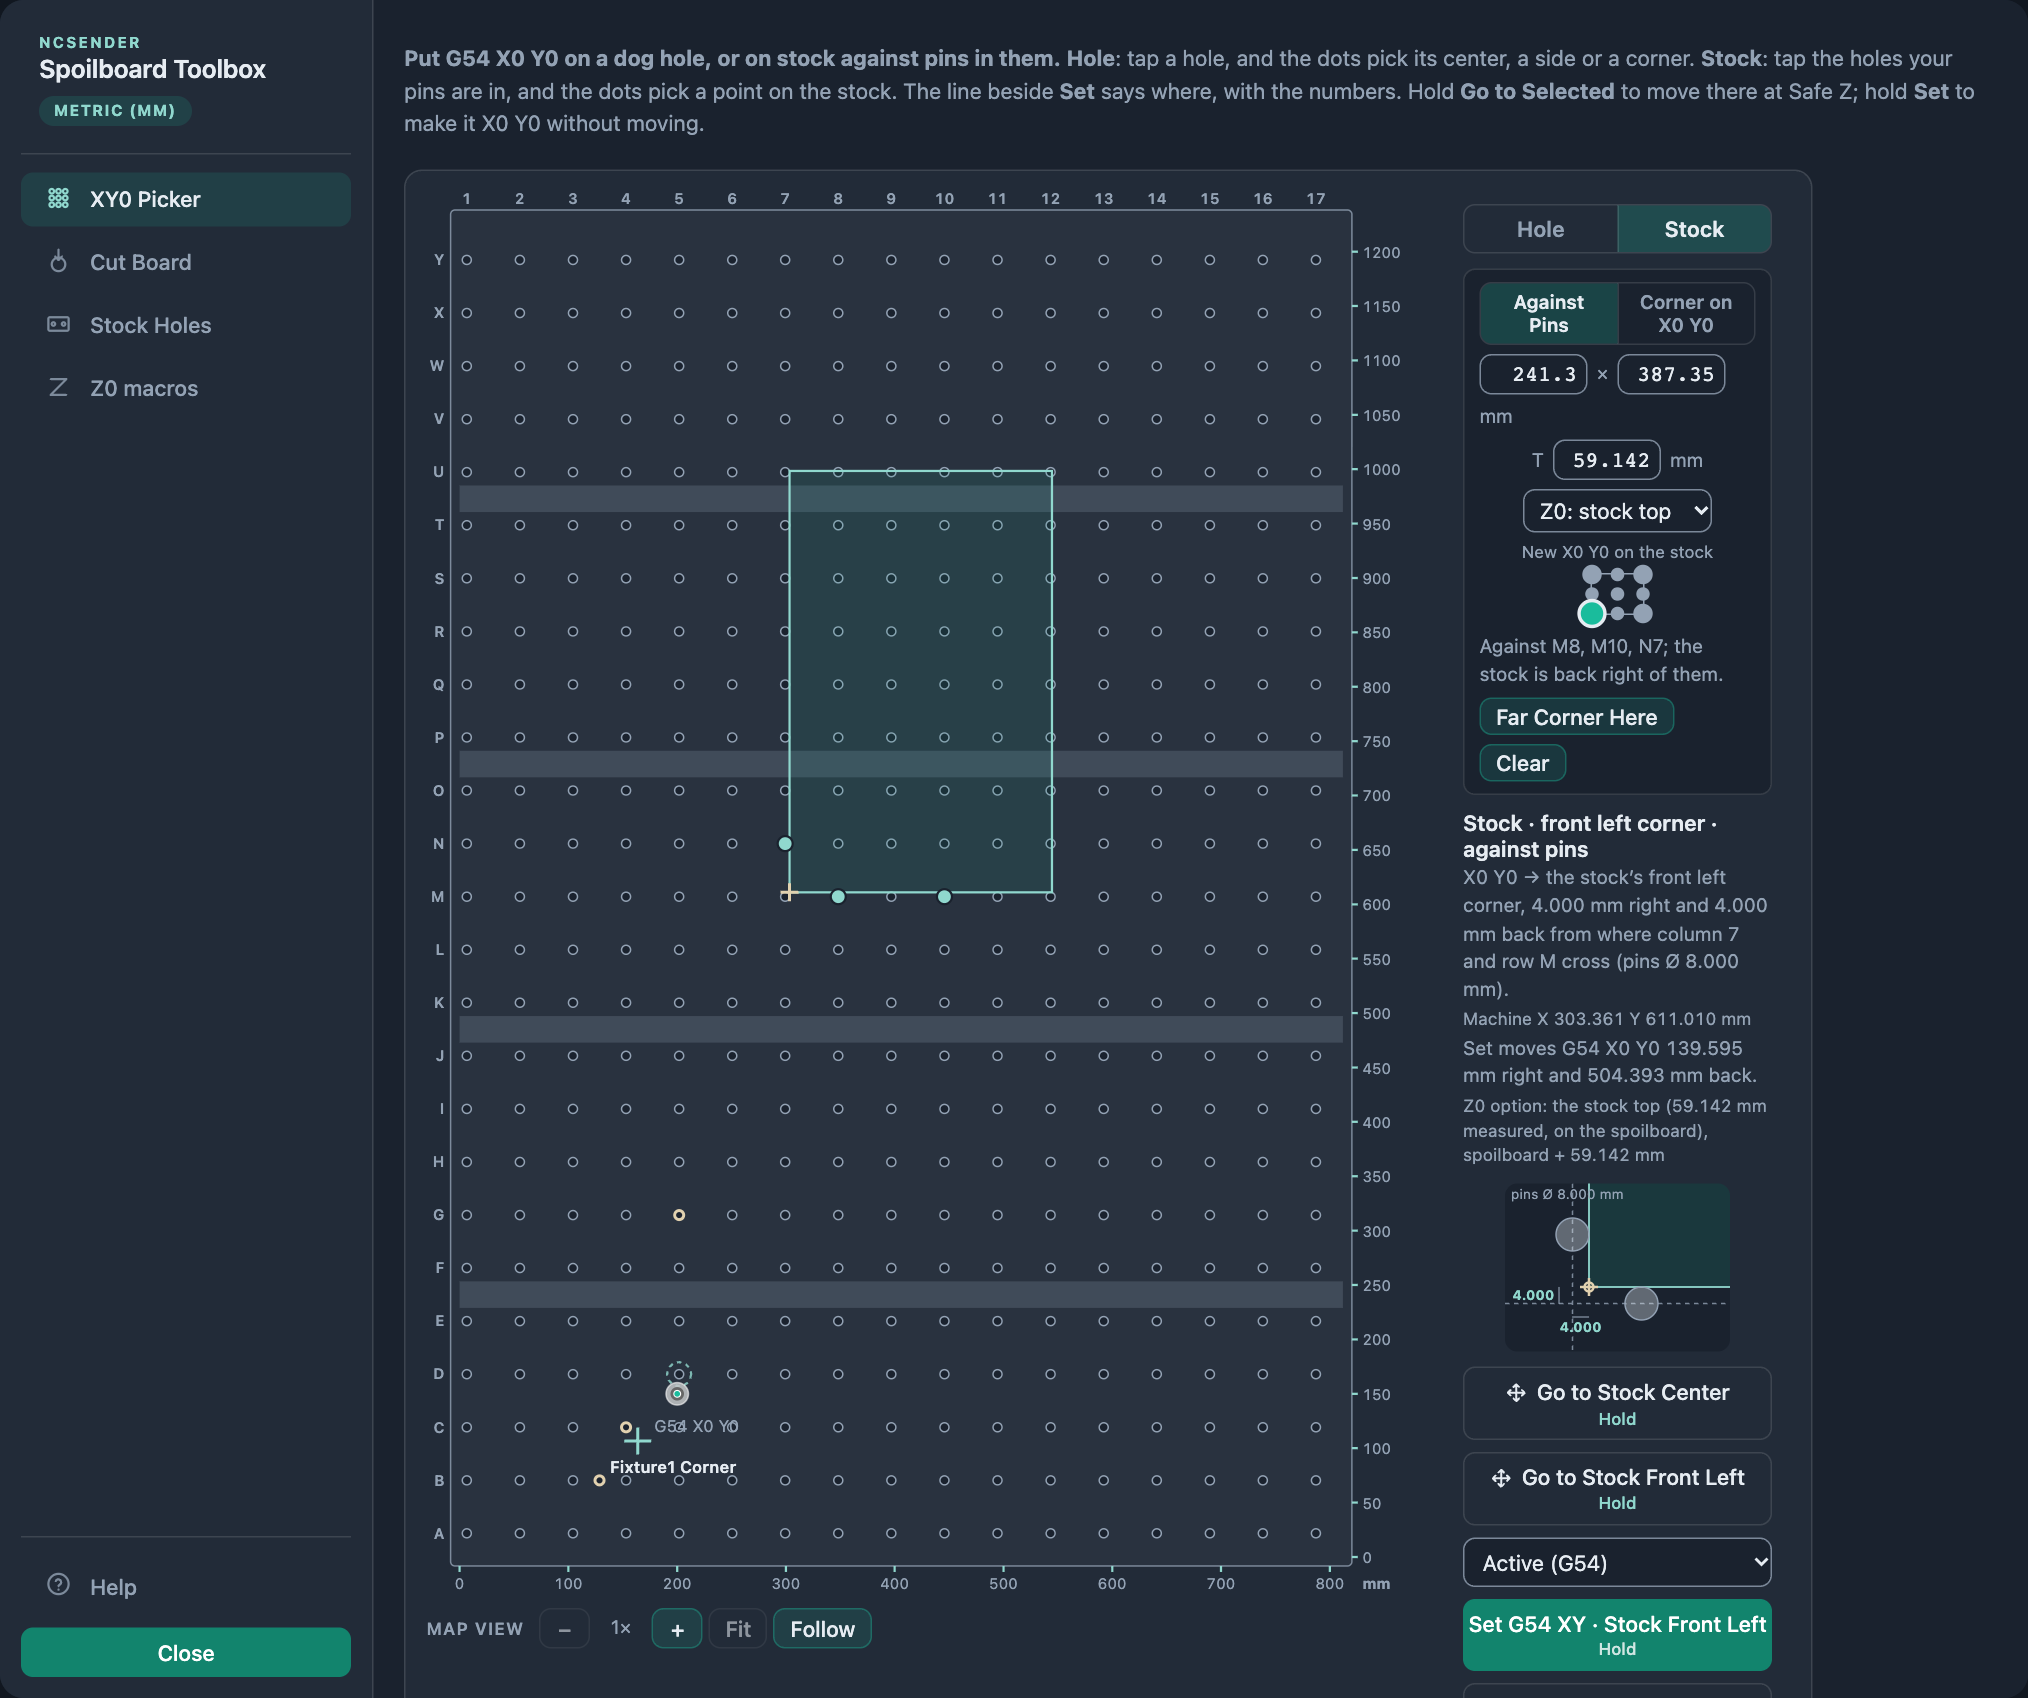
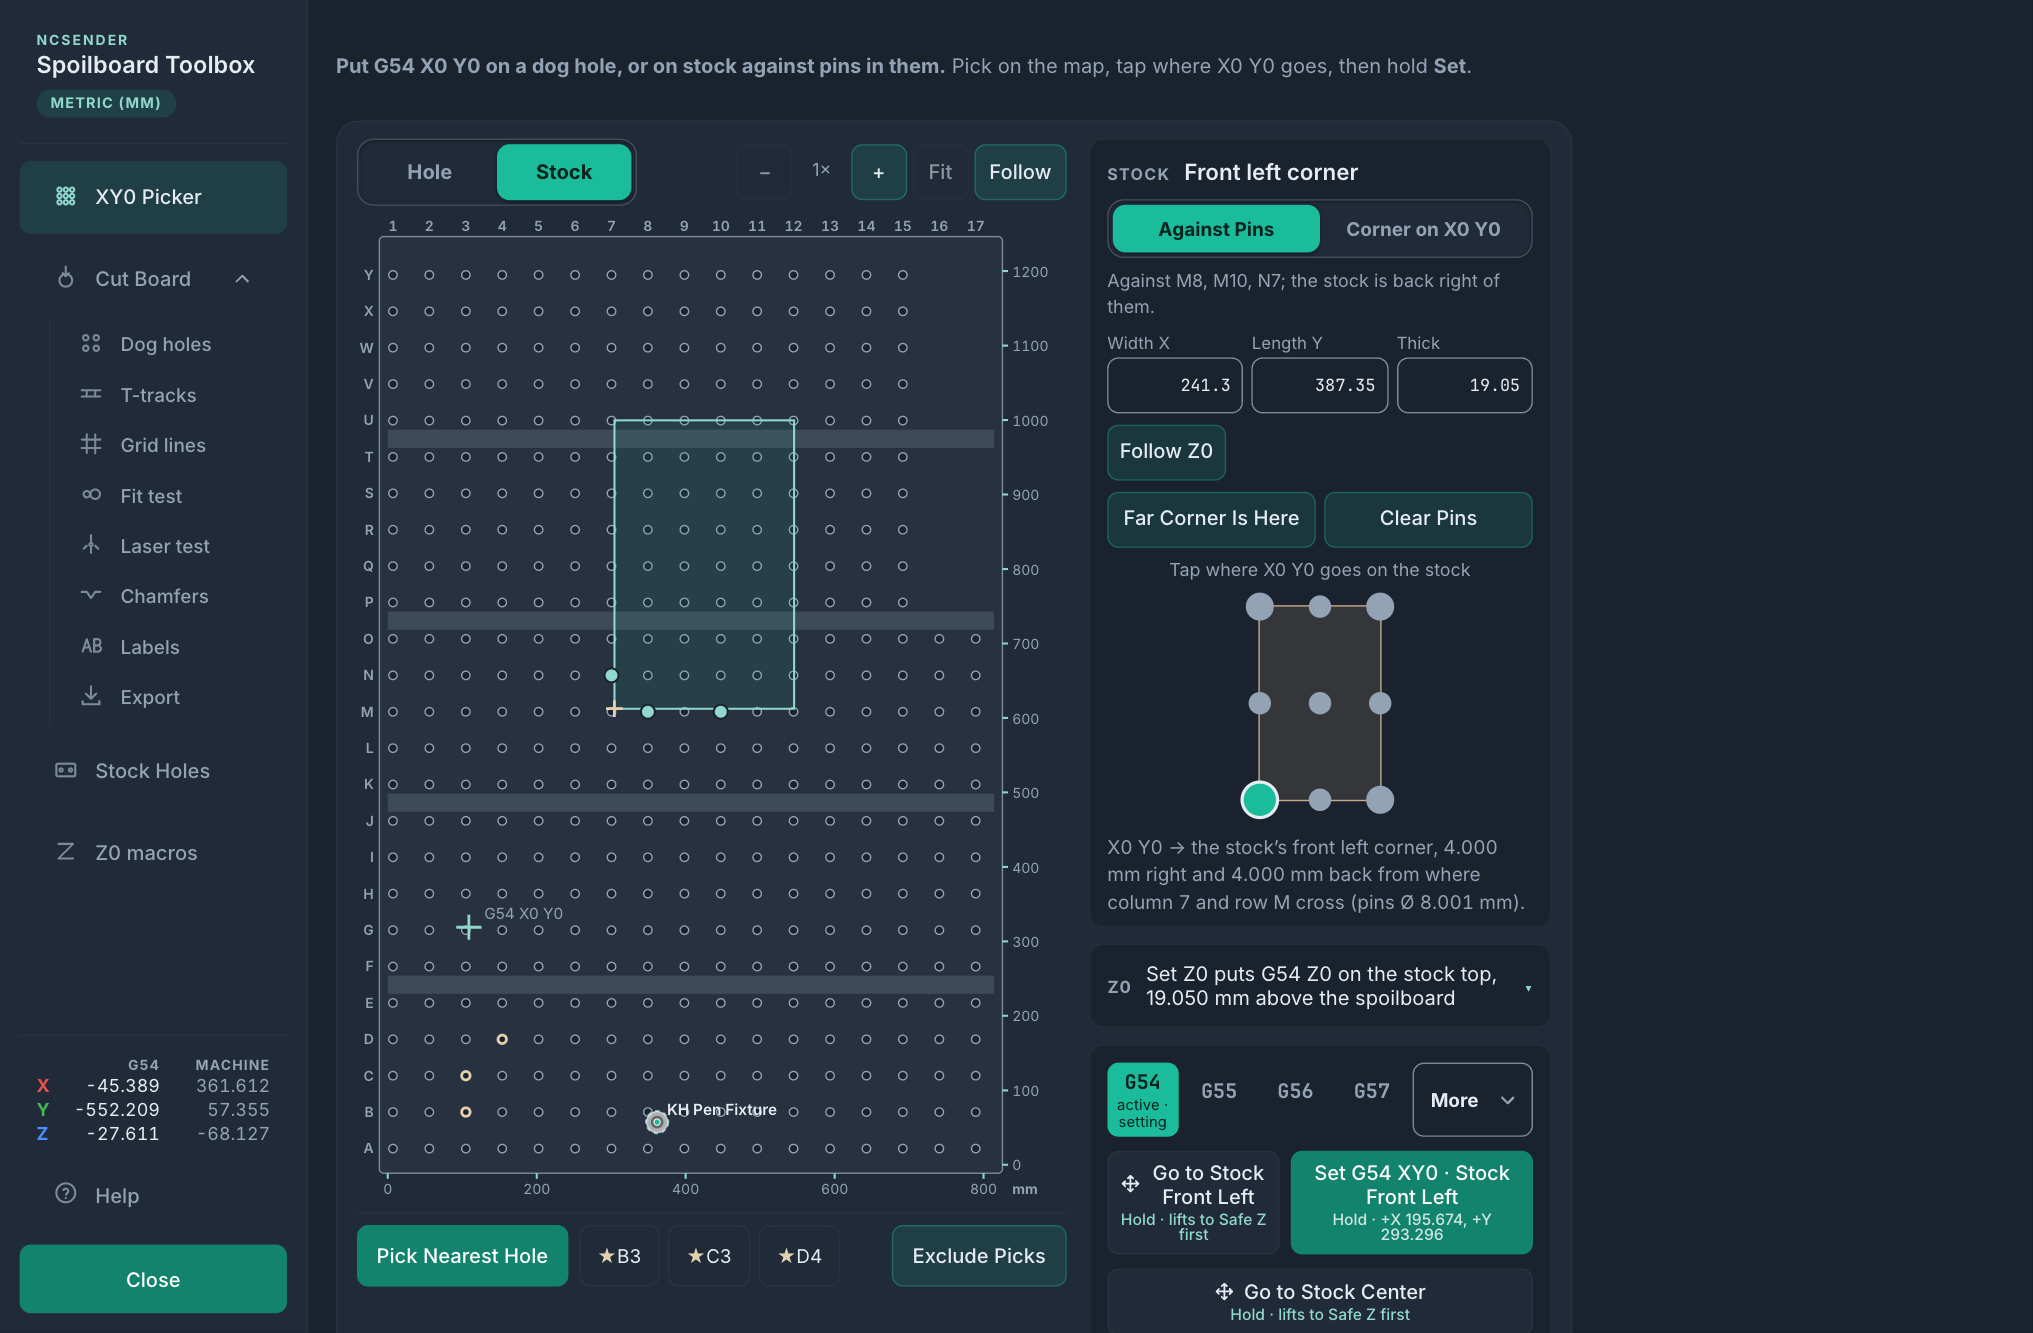
README: screenshots of the 0.5.17 XY0 Picker and Cut Board

diff --git a/README.md b/README.md
@@ -58,9 +58,9 @@ copy it into stock on top of the spoilboard), and **Stock Holes** the ones that 
 or flips, from the same grid.
 
 ![Spoilboard Toolbox's XY0 Picker in ncSender, in Stock mode: a map of the CNC bed's dog hole grid
-between T-tracks, a stock pushed against pins in M8, M10 and N7, X0 Y0 on its front left corner with
-the numbers beside Set and a zoomed view of the pins, and the Go to Stock Center, Go to Stock Front
-Left and Set G54 XY buttons](docs/xy0-picker.png)
+between T-tracks, a stock pushed against pins in M8, M10 and N7; beside it the stock's card (Against
+Pins, Width X, Length Y and Thick, the dots to tap where X0 Y0 goes, front left picked), the Z0 line, the
+work offset chips with G54 active, and Go to Stock Front Left and Set G54 XY0 at the bottom](docs/xy0-picker.png)
 
 ## Install
 
@@ -600,9 +600,10 @@ spoilboard's top (**SBT: Z0 on spoilboard** does it, or touch off), set the dept
 **Bit and depth** card, and press **Generate**: the program opens in ncSender's visualizer to check and
 run.
 
-![The Cut Board tab (before 0.5.14, with chips for the sections): Dog holes, T-tracks, Grid lines, Fit test, Laser test, Chamfers and
-Labels, the Bit and depth card with starting feeds for MDF, a side view of one hole's depth and passes,
-and 425 holes ready to generate, starting with a tool change to T18](docs/spoilboard-tab.png)
+![The Cut Board tab, its sections listed in the sidebar (Dog holes, T-tracks, Grid lines, Fit test,
+Laser test, Chamfers, Labels, Export): Dog holes, with the Bit and depth card taking the loaded tool's
+diameter and starting feeds for MDF, a side view of one hole's depth and passes, and 405 holes ready to
+generate, starting with a tool change to T2](docs/spoilboard-tab.png)
 
 **Surfacing isn't here, on purpose.** Flattening the spoilboard is left to the
 [QuickCut](https://github.com/siganberg/ncsender-plugin-quickcut) plugin's **Wasteboard Surfacing**, which

diff --git a/CLAUDE.md b/CLAUDE.md
@@ -29,7 +29,7 @@ Stock top is `spoilboard + thickness`, with the thickness typed or measured by p
 | `icon.svg`, `icon.png` | The plugin icon (Plugins panel, tool menu, registry): the hole grid with X0 Y0 on ncSender's green. Edit the SVG and re-render the 512 px PNG. |
 | `.scripts/build.sh` | `dist/<id>_v<version>.zip` from the committed files (`git archive`), under a `<id>/` folder as the Plugin Manager expects; tests, scripts, `docs/` (README images) and this file left out. |
 | `README.md` | User guide: the wizard steps, how the macros work, units, requirements. |
-| `docs/` | README images (not in the zip). The feature diagrams are hand-written SVGs (`*.svg`) rendered to the PNGs the README shows; edit the SVG and re-render at 1200 px wide with headless Chrome. `spoilboard-tab.png` and `xy0-picker.png` are screenshots. |
+| `docs/` | README images (not in the zip). The feature diagrams are hand-written SVGs (`*.svg`) rendered to the PNGs the README shows; edit the SVG and re-render at 1200 px wide with headless Chrome. `spoilboard-tab.png` and `xy0-picker.png` are screenshots from the local harness (1500 × 1000, scale 1.4, ncSender's units set to metric, the dialog cropped; a custom `api` handler must pass the other GETs through to the Pi). |
 | `CHANGELOG.md` | User-facing notes per release (ships in the zip); the GitHub release notes are drawn from it. |
 
 ### `config.html`
